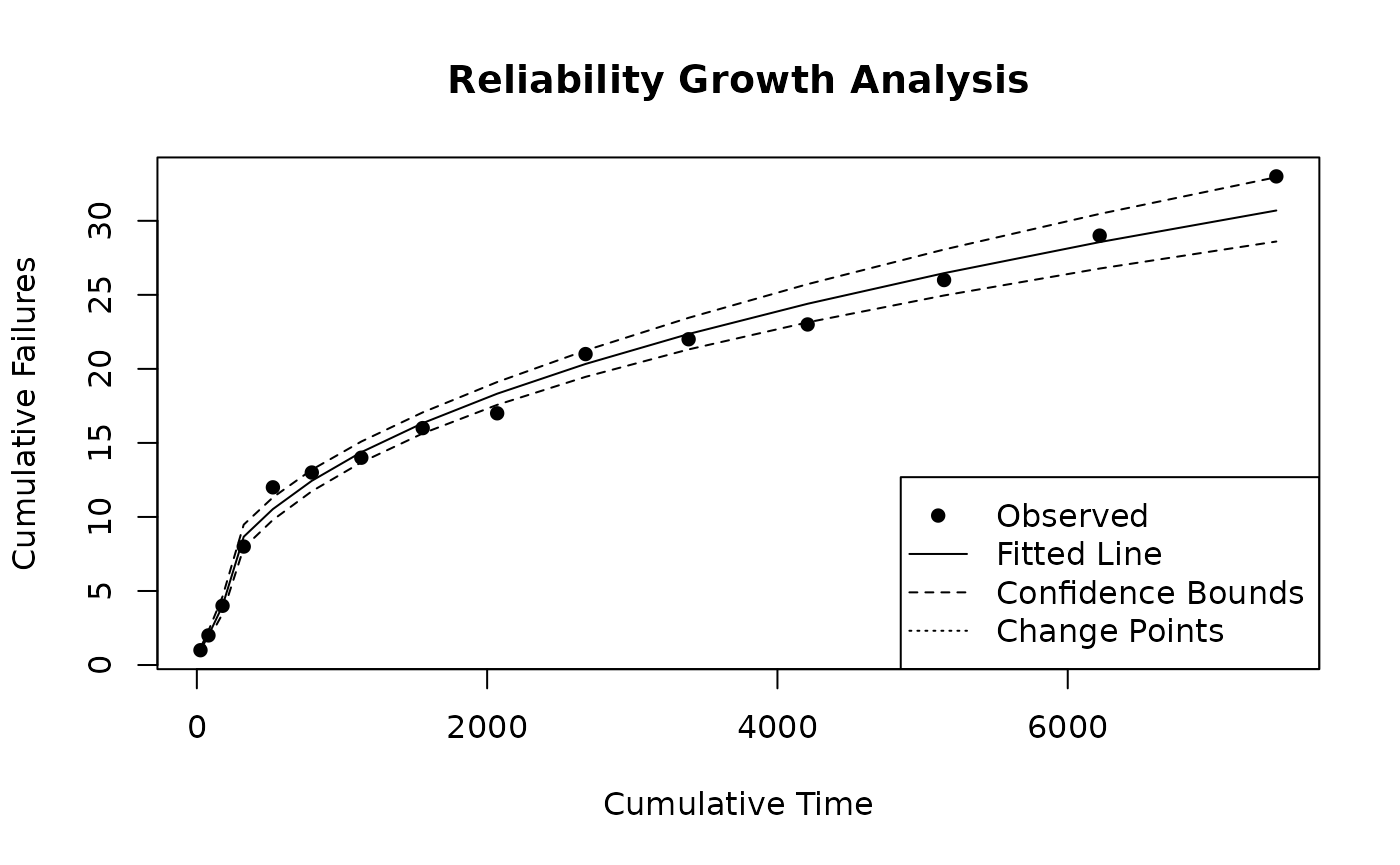
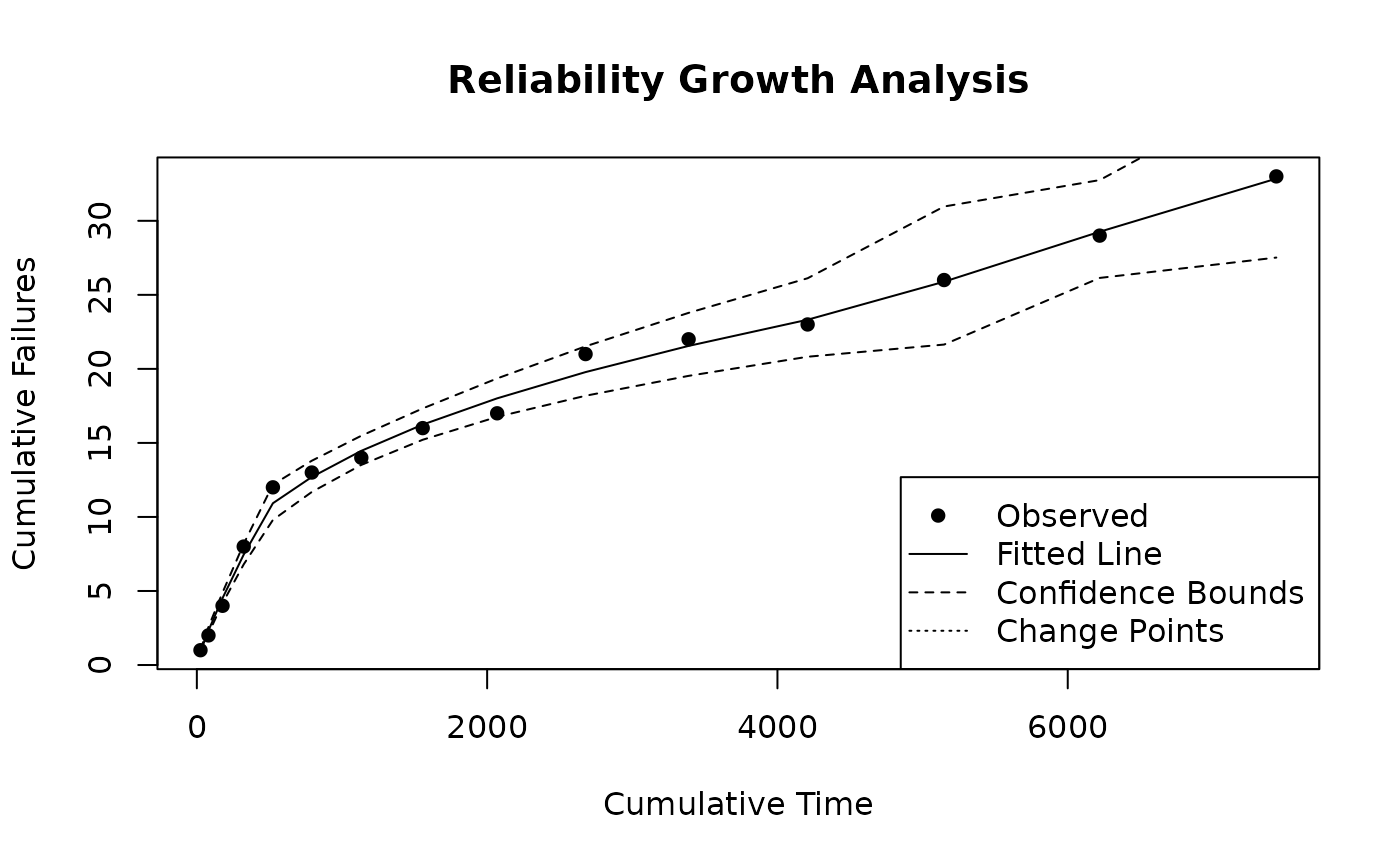
Deploying to gh-pages from @ paulgovan/ReliaGrowR@6c61c17d4e233d75dbfe9ca7f3bcf318740534a1 🚀

diff --git a/articles/RGA.html b/articles/RGA.html
@@ -217,7 +217,7 @@ breakpoint:</p>
 <div class="sourceCode" id="cb4"><pre class="downlit sourceCode r">
 <code class="sourceCode R"><span><span class="va">times</span> <span class="op">&lt;-</span> <span class="fu"><a href="https://rdrr.io/r/base/c.html" class="external-link">c</a></span><span class="op">(</span><span class="fl">25</span>, <span class="fl">55</span>, <span class="fl">97</span>, <span class="fl">146</span>, <span class="fl">201</span>, <span class="fl">268</span>, <span class="fl">341</span>, <span class="fl">423</span>, <span class="fl">513</span>, <span class="fl">609</span>, <span class="fl">710</span>, <span class="fl">820</span>, <span class="fl">940</span>, <span class="fl">1072</span>, <span class="fl">1217</span><span class="op">)</span></span>
 <span><span class="va">failures</span> <span class="op">&lt;-</span> <span class="fu"><a href="https://rdrr.io/r/base/c.html" class="external-link">c</a></span><span class="op">(</span><span class="fl">1</span>, <span class="fl">1</span>, <span class="fl">2</span>, <span class="fl">4</span>, <span class="fl">4</span>, <span class="fl">1</span>, <span class="fl">1</span>, <span class="fl">2</span>, <span class="fl">1</span>, <span class="fl">4</span>, <span class="fl">1</span>, <span class="fl">1</span>, <span class="fl">3</span>, <span class="fl">3</span>, <span class="fl">4</span><span class="op">)</span></span>
-<span><span class="va">breakpoints</span> <span class="op">&lt;-</span> <span class="fl">300</span></span></code></pre></div>
+<span><span class="va">breakpoints</span> <span class="op">&lt;-</span> <span class="fl">500</span></span></code></pre></div>
 <p>Then run the rga and plot the results:</p>
 <div class="sourceCode" id="cb5"><pre class="downlit sourceCode r">
 <code class="sourceCode R"><span><span class="va">result</span> <span class="op">&lt;-</span> <span class="fu"><a href="../reference/rga.html">rga</a></span><span class="op">(</span><span class="va">times</span>, <span class="va">failures</span>, model_type <span class="op">=</span> <span class="st">"Piecewise Weibull NHPP"</span>, breakpoints <span class="op">=</span> <span class="va">breakpoints</span><span class="op">)</span></span>

diff --git a/reference/rga.html b/reference/rga.html
@@ -99,7 +99,7 @@ NHPP model by Guo et al. (2010) <a href="doi:10.1109/RAMS.2010.5448029">doi:10.1
 <span class="r-out co"><span class="r-pr">#&gt;</span> </span>
 <span class="r-out co"><span class="r-pr">#&gt;</span> Weibull Parameters (per segment):</span>
 <span class="r-out co"><span class="r-pr">#&gt;</span> Beta: 0.7987 </span>
-<span class="r-out co"><span class="r-pr">#&gt;</span> Lambda: 0.7987 </span>
+<span class="r-out co"><span class="r-pr">#&gt;</span> Lambda: -3.6145 </span>
 <span class="r-out co"><span class="r-pr">#&gt;</span> </span>
 <span class="r-out co"><span class="r-pr">#&gt;</span> Goodness of Fit:</span>
 <span class="r-out co"><span class="r-pr">#&gt;</span>   AIC: -3.55</span>
